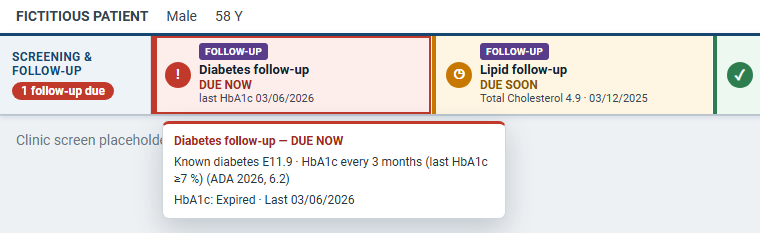
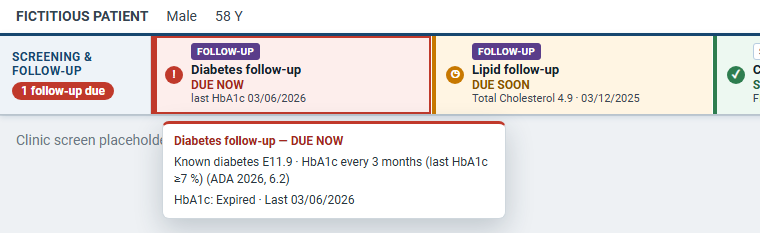
Release Chronic Disease Assistant v0.2.1

Changed region(s): [[0.575, 0.1803, 0.8474, 0.4506], [0.2118, 0.1803, 0.4237, 0.4506], [0.9382, 0.1803, 1.0, 0.4506]]

diff --git a/chronic-disease-assistant.user.js b/chronic-disease-assistant.user.js
@@ -1,7 +1,7 @@
 // ==UserScript==
 // @name         Chronic Disease Assistant
 // @namespace    https://github.com/vBryx/chronic-disease-assistant
-// @version      0.2.0
+// @version      0.2.1
 // @description  Chronic disease screening, follow-up, care gaps, results and calculators for Raqeem
 // @homepageURL  https://github.com/vBryx/chronic-disease-assistant
 // @supportURL   https://github.com/vBryx/chronic-disease-assistant/issues
@@ -26,6 +26,7 @@
     dmLipidFollowupAnyAge: true,
     kidneyFollowupAllDiabetes: true,
     ckdScreenHeartDisease: true,
+    ckdEstablishedOnly: true,
     dmConfirmTwoStep: true,
     pregnancyEpisodes: true,
     fitValueRead: true,
@@ -380,7 +381,7 @@
     readAt: null,
     careprovider: null,
     log: [],
-    cda: '0.2.0',
+    cda: '0.2.1',
   };
 
   const OLD_SCRIPT_NOTE = 'Remove the old Raqeem Screening Assistant in Tampermonkey, then reload Raqeem.';
@@ -652,6 +653,8 @@
             active: d.isactive !== false,
 
             visituid: rec.patientvisituid && (rec.patientvisituid._id || rec.patientvisituid),
+
+            chronic: d.ischronicdiagnosis === true || rec.ischronicdiagnosis === true,
           });
         }
       }
@@ -980,7 +983,7 @@
     const t = normText(text).toLowerCase().replace(/\s+/g, '');
 
     if (/^(?:neg|notdetected|nonreactive|-ve)/.test(t)) return 'negative';
-    if (/^(?:pos|poitive|\+|detected|reactive)/.test(t)) return 'positive';
+    if (/^(?:pos|poitive|weakpo(?:s)?itive|\+|detected|reactive)/.test(t)) return 'positive';
 
     return null;
   }
@@ -1024,12 +1027,16 @@
     }
 
     if (key === 'fit') {
-      const fit = line ? fitResult(line.resultvalue) : null;
+      const fitLines = (labresult && labresult.resultvalues) || [];
+      const hit =
+        fitLines.find((l) => fitResult(l.resultvalue) === 'positive') ||
+        fitLines.find((l) => fitResult(l.resultvalue) === 'negative');
+      const fit = hit ? fitResult(hit.resultvalue) : null;
 
       return {
         check: !labresult ? 'unreadable' : fit ? 'valid' : 'invalid',
         value: null,
-        shown: fit ? normText(line.resultvalue) : null,
+        shown: fit ? normText(hit.resultvalue) : null,
         positive: fit === 'positive',
         bound: false,
         boundSymbol: '',
@@ -1788,9 +1795,17 @@
 
     const hasDM = !!renalDx;
 
-    const hasHTN = hasDx(CFG.icd.htn);
+    const establishedDx = (regex) => {
+      const rows = (diagnoses || []).filter((d) => d.active && regex.test(d.code));
+      const occasions = new Set(rows.map((d) => d.visituid || `day ${fmtDate(parseDate(d.codedAt))}`));
+      return rows.some((d) => d.chronic) || occasions.size >= 2;
+    };
 
-    const hasHeart = CFG.ckdScreenHeartDisease && hasDx(CFG.icd.heart);
+    const ckdGroupDx = CFG.ckdEstablishedOnly ? establishedDx : hasDx;
+
+    const hasHTN = ckdGroupDx(CFG.icd.htn);
+
+    const hasHeart = CFG.ckdScreenHeartDisease && ckdGroupDx(CFG.icd.heart);
 
     const hasDMorHTN = hasDM || hasHTN || hasHeart;
 
@@ -1837,7 +1852,9 @@
     } else if (!hasDMorHTN) {
       v.ckd = {
         state: 'excluded',
-        why: 'No diabetes, hypertension or heart disease',
+        why: CFG.ckdEstablishedOnly
+          ? 'No diabetes, and no hypertension or heart disease coded at 2 visits or marked chronic'
+          : 'No diabetes, hypertension or heart disease',
       };
     } else {
       v.ckd = standardScreening({
@@ -2379,7 +2396,10 @@
       'Programme rule (local choice, not guideline text)',
     ],
     crc: ['FIT yearly at age 45-75; colonoscopy is not visible in Raqeem (FIT only)', 'USPSTF 2021'],
-    ckd: ['ACR and creatinine yearly with hypertension or heart disease', 'KDIGO 2024 PP 1.1.1.1'],
+    ckd: [
+      'ACR and creatinine yearly with hypertension or heart disease coded at 2 visits or marked chronic',
+      'KDIGO 2024 PP 1.1.1.1',
+    ],
   };
 
   function buildCareGaps(demo, diagnoses, verdicts, medicines, vitals, labs, visits) {
@@ -2438,7 +2458,10 @@
             : screenAction[key],
         due: 'now',
         date: last || null,
-        rule: SCREEN_RULE[key][0],
+        rule:
+          key === 'ckd' && !CFG.ckdEstablishedOnly
+            ? 'ACR and creatinine yearly with hypertension or heart disease'
+            : SCREEN_RULE[key][0],
         src: SCREEN_RULE[key][1],
       });
     }
@@ -3049,7 +3072,7 @@
     );
   }
 
-  const cacheKey = (pid) => 'rqm-screen-v020:' + pid;
+  const cacheKey = (pid) => 'rqm-screen-v021:' + pid;
 
   function cacheGet(pid, key) {
     try {
@@ -3142,7 +3165,7 @@
         cursor:help;
       }
       .rqm-screening-cell:hover,.rqm-screening-cell:focus { box-shadow:inset 0 0 0 2px var(--rqm-accent); outline:0; }
-      .rqm-screening-icon { grid-area:icon; flex:none; width:26px; height:26px; border-radius:50%; background:var(--rqm-accent); color:#fff; display:flex; align-items:center; justify-content:center; font-style:normal; font-weight:800; }
+      .rqm-screening-icon { grid-area:icon; flex:none; width:18px; height:18px; border-radius:50%; background:var(--rqm-accent); color:#fff; display:flex; align-items:center; justify-content:center; font-style:normal; font-weight:800; font-size:11px; line-height:1; }
       .rqm-mode { grid-area:mode; justify-self:start; border-radius:3px; padding:0 5px; font-size:9.5px; font-weight:800; letter-spacing:.5px; line-height:15px; }
       .rqm-mode-screening { color:#164f7a; background:#fff; border:1px solid #b7cde0; }
       .rqm-mode-followup { color:#fff; background:#5a3d8a; border:1px solid #5a3d8a; }

diff --git a/docs/meanings.md b/docs/meanings.md
@@ -1,6 +1,6 @@
 # Clinical meanings
 
-This reference describes version 0.2.0. **Programme rule** means a local choice, not guideline text.
+This reference describes version 0.2.1. **Programme rule** means a local choice, not guideline text.
 
 ## Strip states
 
@@ -39,7 +39,7 @@ A missing or invalid test stays due even when another test cannot be read. An un
 - The result line must contain a usable number.
 - Bounds such as `<3.0` and values with units can count.
 - NA, blank, unavailable, and insufficient samples do not count.
-- FIT can be positive or negative.
+- FIT can be positive or negative. The Assistant reads every line of the FIT report. A weak positive counts as positive. A FIT with no negative or positive line is not valid.
 - The interval starts on the result date.
 - Values are not rounded on the strip.
 
@@ -86,8 +86,10 @@ The Assistant checks these situations in order:
 | Coded N18 at any age | **CKD follow-up** | ACR and serum creatinine at least yearly. ADA 2026, 11.1b |
 | Active E10–E14 at any age | **Kidney follow-up** | ACR and serum creatinine yearly. ADA 2026, 11.1a |
 | Under 18 without the above | **NOT ELIGIBLE** | Age below 18 |
-| Hypertension, heart disease, stroke, or heart failure | **CKD screening** | ACR and serum creatinine yearly. KDIGO 2024, PP 1.1.1.1 |
-| None of these | **NOT ELIGIBLE** | No diabetes, hypertension, or heart disease |
+| Hypertension, heart disease, stroke, or heart failure, recorded at two or more visits or marked as chronic in Raqeem | **CKD screening** | ACR and serum creatinine yearly. KDIGO 2024, PP 1.1.1.1 |
+| None of these | **NOT ELIGIBLE** | No diabetes, and no hypertension or heart disease coded at 2 visits or marked chronic |
+
+A hypertension or heart disease diagnosis recorded at one visit only, and not marked as chronic, does not start CKD screening. Other checks, such as the blood-pressure care gaps, still use that diagnosis.
 
 Only the albumin/creatinine ratio counts as ACR. Only serum creatinine counts. A separate eGFR order does not count. CKD screening has no screening code.
 

diff --git a/CHANGELOG.md b/CHANGELOG.md
@@ -1,5 +1,13 @@
 # What changed
 
+## Version 0.2.1
+
+### Corrections
+
+- **Colon cancer:** the FIT result is now read correctly. A FIT report in Raqeem has several lines, and most of them are empty. Before this version, the Assistant could read an empty line and show **RESULT NOT VALID – REPEAT** although the report was negative or positive. The Assistant now reads every line of the report. A weak positive result counts as positive. The result is not valid only when no line shows a negative or positive result.
+- **CKD screening:** hypertension or heart disease now starts CKD screening only when the diagnosis was recorded at two or more visits, or is marked as chronic in Raqeem. A diagnosis recorded at one visit only, and not marked as chronic, no longer makes CKD screening due. Diabetes and coded CKD follow-up are unchanged.
+- **Strip:** the round status symbols in the strip are smaller.
+
 ## Version 0.2.0
 
 This is the first public version of **Chronic Disease Assistant**.
